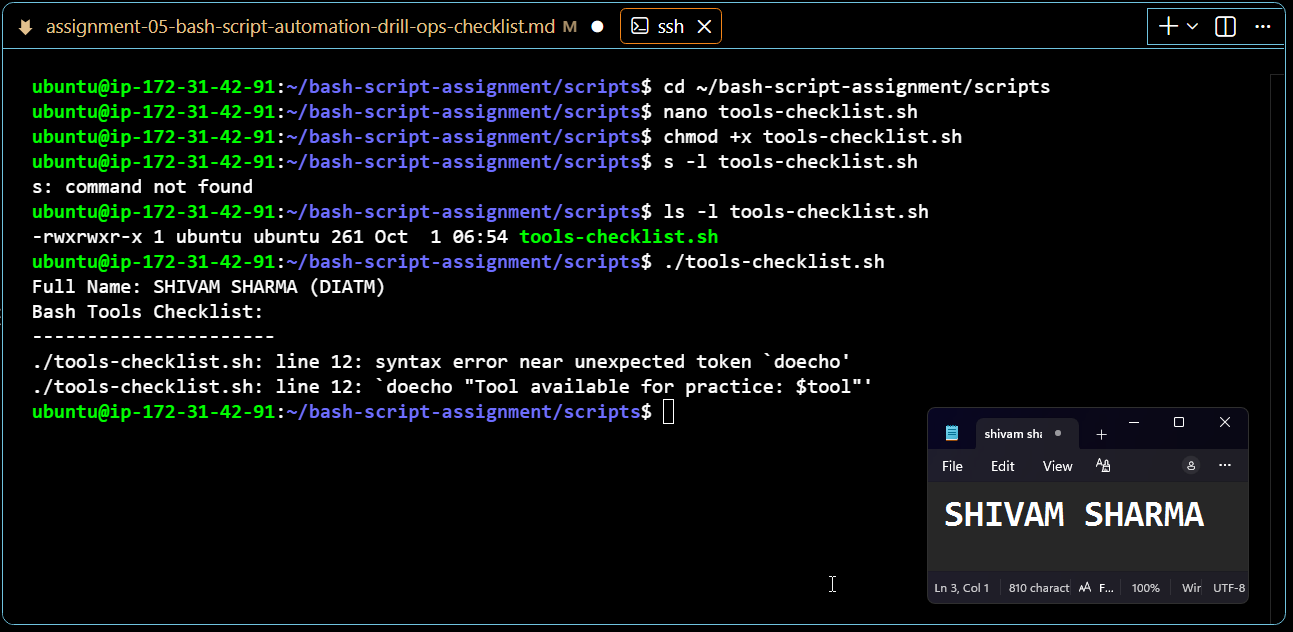
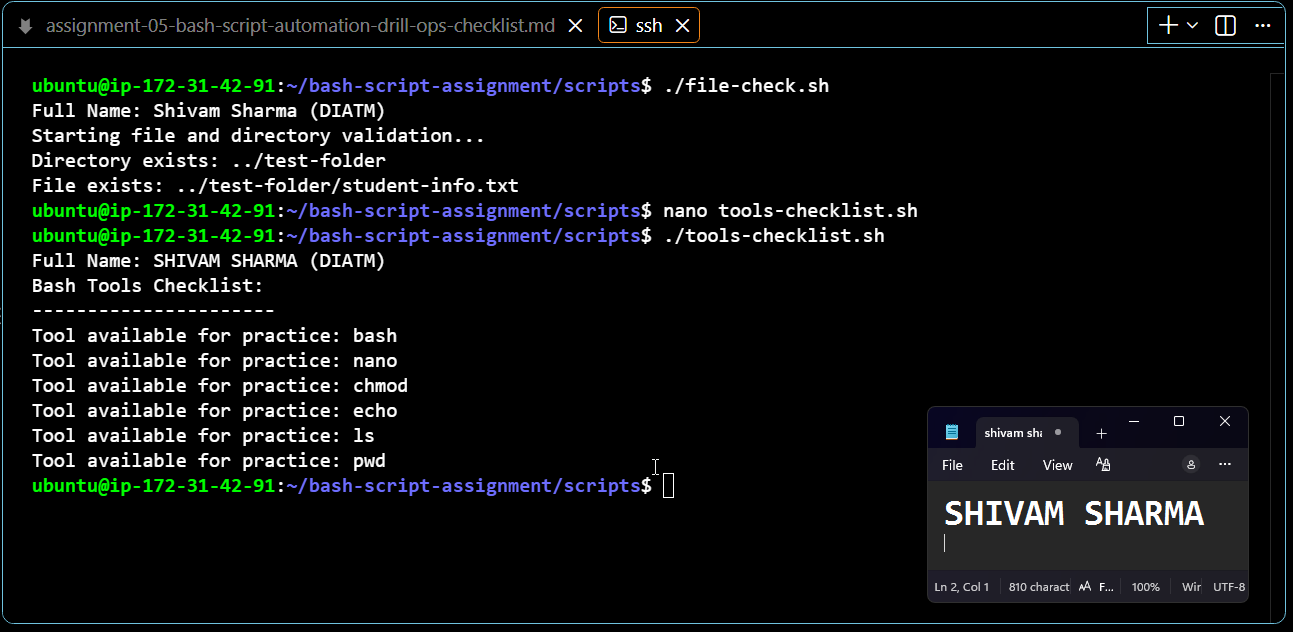
assignment 5 on the go

diff --git a/week-03-linux-and-bash-for-devops/assignment-05-bash-script-automation-drill-ops-checklist.md b/week-03-linux-and-bash-for-devops/assignment-05-bash-script-automation-drill-ops-checklist.md
@@ -270,25 +270,25 @@ Answer the following in your own words:
 
 **1. What does `-d` check in Bash?**
 
-Add your answer here.
+`-d` is a file test operator that returns true if the given path exists and is a directory. In an `if [ -d "$path" ]` condition, Bash checks whether a directory (not a file) exists at that path. If the path is a regular file or does not exist at all, the condition evaluates to false.
 
 ---
 
 **2. What does `-f` check in Bash?**
 
-Add your answer here.
+`-f` is a file test operator that returns true if the given path exists and is a regular file (not a directory, device, or symbolic link). In an `if [ -f "$path" ]` condition, Bash confirms that a readable, non-directory file exists at the specified location. This is used to verify that a configuration file, log file, or data file is present before attempting to read or process it.
 
 ---
 
 **3. Why should file and directory paths be stored in variables?**
 
-Add your answer here.
+Storing paths in variables means the path is defined once at the top of the script. If the path changes — for example, if the deployment moves from `/test-folder` to `/opt/test-folder` — you update one variable assignment rather than every occurrence in the script body. It also makes the script more readable: `$directory_path` communicates intent clearly, whereas a repeated literal string buried in multiple `if` blocks is harder to scan and maintain.
 
 ---
 
 **4. What happens if the file does not exist?**
 
-Add your answer here.
+When the file does not exist, the `-f` test returns false and the `else` branch executes, printing the "File does not exist" message. The script continues running normally — no crash or error occurs. This is intentional defensive scripting: the conditional handles both outcomes explicitly so the operator always gets clear feedback whether the file is present or missing, rather than the script failing silently or with a cryptic error.
 
 ---
 
@@ -302,25 +302,25 @@ Use if-else conditionals to make decisions based on a variable value.
 
 #### Screenshot 1 — Content of `score-check.sh` with `score=85`
 
-Add your screenshot here.
+![Task 7 Screenshot](screenshots/assignment-05-task-0701.png)
 
 ---
 
 #### Screenshot 2 — Output showing `Result: Pass`
 
-Add your screenshot here.
+![Task 7 Screenshot](screenshots/assignment-05-task-0702.png)
 
 ---
 
 #### Screenshot 3 — Content of `score-check.sh` with `score=55`
 
-Add your screenshot here.
+![Task 7 Screenshot](screenshots/assignment-05-task-0703.png)
 
 ---
 
 #### Screenshot 4 — Output showing `Result: Retry`
 
-Add your screenshot here.
+![Task 7 Screenshot](screenshots/assignment-05-task-0704.png)
 
 ---
 
@@ -330,25 +330,25 @@ Answer the following in your own words:
 
 **1. What is the purpose of if-else in Bash?**
 
-Add your answer here.
+`if-else` allows a script to execute different code paths depending on whether a condition is true or false. Without it, a script can only execute commands in a fixed sequence. With `if-else`, the script can evaluate a value, a comparison, or a file state, and take the appropriate action for each outcome. In production automation, this is how scripts decide whether to send an alert, skip a step, retry an operation, or exit with an error code.
 
 ---
 
 **2. What does `-ge` mean?**
 
-Add your answer here.
+`-ge` stands for "greater than or equal to" and is an arithmetic comparison operator used inside `[ ]` test expressions in Bash. Unlike `>=` which compares strings, `-ge` compares integers. `[ "$score" -ge 70 ]` evaluates to true if `$score` is numerically greater than or equal to 70. Other arithmetic operators are `-gt` (greater than), `-lt` (less than), `-le` (less than or equal to), `-eq` (equal), and `-ne` (not equal).
 
 ---
 
 **3. Why should conditions be tested with different values?**
 
-Add your answer here.
+Testing with a single value only proves that one path works. A condition has at least two outcomes (true and false), and both branches must be verified to confirm the logic is correct. Testing with `score=85` confirms the Pass branch executes; testing with `score=55` confirms the Retry branch executes. In real automation scripts, untested branches can contain bugs that only surface in production, at the worst possible time. Boundary values (like `score=70` exactly) should also be tested to verify edge case behavior.
 
 ---
 
 **4. How can conditionals help in automation scripts?**
 
-Add your answer here.
+Conditionals turn a static sequence of commands into an intelligent, self-directing script. An automation script can check whether a service is running before attempting a restart, verify a backup file exists before deleting the source, skip a deployment step if the build already succeeded, or send an alert only when disk usage exceeds a threshold. Without conditionals, scripts either fail on unexpected state or require human intervention for every decision. With conditionals, the same script handles both the happy path and failure cases automatically.
 
 ---
 
@@ -362,19 +362,19 @@ Create a final Bash script using functions to organize reusable code.
 
 #### Screenshot 1 — Content of `final-automation.sh`
 
-Add your screenshot here.
+![Task 8 Screenshot](screenshots/assignment-05-task-0801.png)
 
 ---
 
 #### Screenshot 2 — Output of `./final-automation.sh`
 
-Add your screenshot here.
+![Task 8 Screenshot](screenshots/assignment-05-task-0802.png)
 
 ---
 
 #### Screenshot 3 — Output of `ls -lah` showing all created scripts
 
-Add your screenshot here.
+![Task 8 Screenshot](screenshots/assignment-05-task-0803.png)
 
 ---
 
